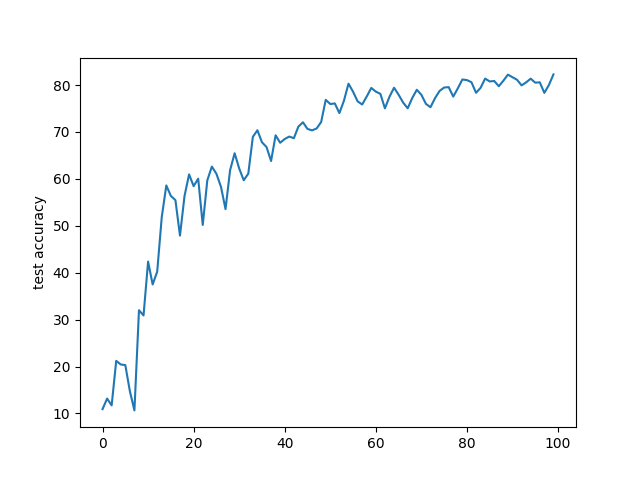
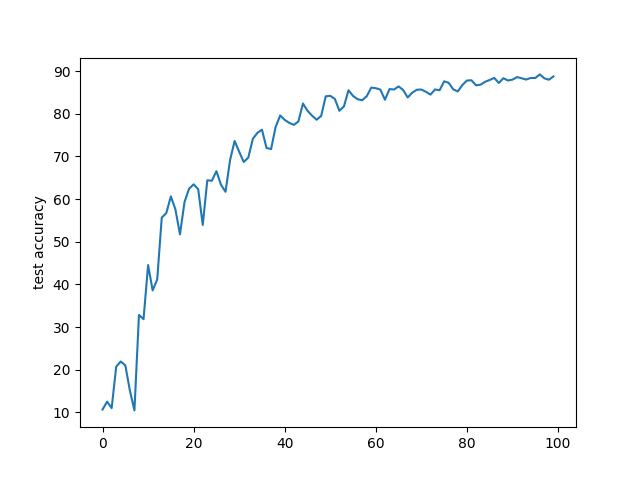
per batch clipping

diff --git a/models/Update.py b/models/Update.py
@@ -70,11 +70,18 @@ class LocalUpdateDP(object):
 
     def clip_gradients(self, net):
         if self.args.dp_mechanism == 'Laplace':
-            # Laplace use 1 norm
-            self.per_sample_clip(net, self.args.dp_clip, norm=1)
+            if (self.args.type == "sample"):
+                # Laplace use 1 norm
+                self.per_sample_clip(net, self.args.dp_clip, norm=1)
+            else:
+                self.per_batch_clip(net, self.args.dp_clip, norm=1)
+            
         elif self.args.dp_mechanism == 'Gaussian' or self.args.dp_mechanism == 'MA':
             # Gaussian use 2 norm
-            self.per_sample_clip(net, self.args.dp_clip, norm=2)
+            if (self.args.type == "sample"):
+                self.per_sample_clip(net, self.args.dp_clip, norm=2)
+            else:
+                self.per_batch_clip(net, self.args.dp_clip, norm=2)
 
     def per_sample_clip(self, net, clipping, norm):
         grad_samples = [x.grad_sample for x in net.parameters()]
@@ -91,6 +98,18 @@ class LocalUpdateDP(object):
         # average per sample gradient after clipping and set back gradient
         for param in net.parameters():
             param.grad = param.grad_sample.detach().mean(dim=0)
+    
+    def per_batch_clip(self, net, clipping, norm):
+        # Get gradients for each parameter
+        #print("CALLED")
+        grads = [param.grad for param in net.parameters()]
+        
+        # Calculate total norm across all parameters for the batch
+        total_norm = torch.stack([g.reshape(-1).norm(norm) for g in grads]).norm(norm)
+        # Calculate clipping factor
+        clip_factor = (clipping / (total_norm + 1e-6)).clamp(max=1.0)
+        for param in net.parameters():
+            param.grad.detach().mul_(clip_factor.to(param.grad.device))
 
     def add_noise(self, net):
         sensitivity = cal_sensitivity(self.lr, self.args.dp_clip, len(self.idxs_sample))

diff --git a/utils/options.py b/utils/options.py
@@ -13,6 +13,7 @@ def args_parser():
     parser.add_argument('--bs', type=int, default=1024, help="test batch size")
     parser.add_argument('--lr', type=float, default=0.1, help="learning rate")
     parser.add_argument('--lr_decay', type=float, default=0.995, help="learning rate decay each round")
+    parser.add_argument('--type', type=str, default='sample', help='sample-level or user-level dp')
 
     # model arguments
     parser.add_argument('--model', type=str, default='cnn', help='model name')
